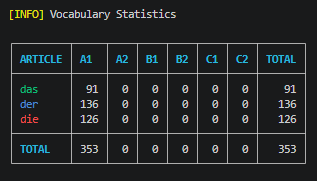
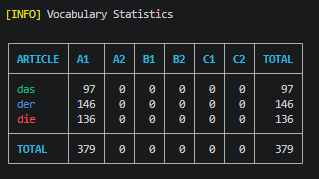
Updating the stats

Changed region(s): [[0.0, 0.2235, 0.9653, 0.9218], [0.0, 0.0279, 0.5678, 0.1117]]

diff --git a/README.md b/README.md
@@ -17,10 +17,10 @@ The current WortWerk vocabulary dataset is organized by German article and CEFR 
 
 | Article | A1 | A2 | B1 | B2 | C1 | C2 | Total |
 | :------ | --: | --: | --: | --: | --: | --: | ----: |
-| der     | 91 | 0 | 0 | 0 | 0 | 0 | 91 |
-| die     | 136 | 0 | 0 | 0 | 0 | 0 | 136 |
-| das     | 126 | 0 | 0 | 0 | 0 | 0 | 126 |
-| **Total** | **353** | **0** | **0** | **0** | **0** | **0** | **353** |
+| der     | 97 | 0 | 0 | 0 | 0 | 0 | 97 |
+| die     | 146 | 0 | 0 | 0 | 0 | 0 | 146 |
+| das     | 136 | 0 | 0 | 0 | 0 | 0 | 136 |
+| **Total** | **379** | **0** | **0** | **0** | **0** | **0** | **379** |
 
 All the words are gathered from the **Starten Wir** book series.
 
